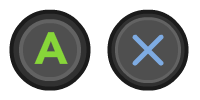
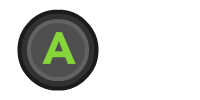
add cannonfire animation

diff --git a/DemoController.js b/DemoController.js
@@ -21,6 +21,7 @@ class DemoController {
         this.img.ship = new Image();
         this.img.seaFG = new Image();
         this.img.anchor = new Image();
+        this.img.smoke = new Image();
 
         this.lastConnectedIndex = null;
 
@@ -31,6 +32,8 @@ class DemoController {
         this.anchorY = 0;
         this.anchorDirection = 0;
         this.anchorMaxDepth = 300;
+
+        this.cannonEffects = new Array();
 
         this.resize();
 
@@ -47,6 +50,9 @@ class DemoController {
                 } else if (this.anchorDirection === -1) {
                     this.anchorDirection = 0;
                 }
+
+                if (buttons.hasOwnProperty(0) && buttons[0].state === 'press')
+                    this.fireCannon();
             } else {
                 if (buttons.hasOwnProperty('ArrowDown') && buttons['ArrowDown'].state === 'press') {
                     this.dropAnchor();
@@ -55,6 +61,9 @@ class DemoController {
                 } else if (this.anchorDirection === -1) {
                     this.anchorDirection = 0;
                 }
+
+                if (buttons.hasOwnProperty(' ') && buttons[' '].state === 'press')
+                    this.fireCannon();
             }
         });
 
@@ -168,7 +177,18 @@ class DemoController {
     }
 
     renderCannonFire(delta) {
-        // TODO
+        const toRemove = new Array();
+        this.cannonEffects.forEach((cannonBall, i) => {
+            const idx = Math.floor(cannonBall.ms / 40);
+            cannonBall.ms += delta;
+            if (idx > this.img.smoke.width / 120) {
+                toRemove.push(i);
+            } else {
+                this.ctx.drawImage(this.img.smoke, Math.floor(cannonBall.ms / 40) * 120, 0, 120, 120, this.shipX + 102 + cannonBall.x, this.shipY + 265, 120, 120);
+            }
+        });
+        toRemove.sort((a, b) => a - b);
+        toRemove.forEach(i => this.cannonEffects.splice(i, 1));
     }
 
     update(delta) {
@@ -189,6 +209,13 @@ class DemoController {
         this.anchorDirection = -1;
     }
 
+    fireCannon() {
+        const cannonBall = new Object();
+        cannonBall.ms = 0;
+        cannonBall.x = Math.floor(Math.random() * 4) * 38;
+        this.cannonEffects.push(cannonBall);
+    }
+
     load() {
         const images = new Array();
         images.push(new Promise((resolve => this.img.keyboard.onload = resolve)));
@@ -196,12 +223,14 @@ class DemoController {
         images.push(new Promise((resolve => this.img.ship.onload  = resolve)));
         images.push(new Promise((resolve => this.img.seaFG.onload  = resolve)));
         images.push(new Promise((resolve => this.img.anchor.onload  = resolve)));
+        images.push(new Promise((resolve => this.img.smoke.onload  = resolve)));
 
         this.img.keyboard.src = './assets/img/keyboard.png';
         this.img.gamepad.src = './assets/img/gamepad.png';
         this.img.ship.src = './assets/img/ship.png';
         this.img.seaFG.src = './assets/img/sea-foreground.png';
         this.img.anchor.src = './assets/img/anchor.png';
+        this.img.smoke.src = './assets/img/smoke-spritesheet.png';
 
         return Promise.all(images);
     }

diff --git a/main.css b/main.css
@@ -159,6 +159,8 @@ canvas {
 
 #devices #active-device {
     position: absolute;
+    display: flex;
+    align-items: center;
     top: 0;
     right: 0;
     z-index: 10;
@@ -171,12 +173,31 @@ canvas {
     transition: 300ms background-color ease-in-out, 300ms border-color ease-in-out;
 }
 
+@keyframes blink-animation {
+    0% {
+        opacity: 0;
+    }
+    100% {
+        opacity: 1;
+    }
+  }
+#devices #active-device p {
+    text-align: center;
+    animation: blink-animation 1s infinite;
+    animation-direction: alternate-reverse;
+    color: #333;
+}
+
 #devices #active-device.keyboard, #devices #active-device.gamepad {
     background-repeat: no-repeat;
     background-size: 100%;
     background-position: center;
     border-color: #EEE;
     background-color: #FFF;
+}
+
+#devices #active-device.keyboard p, #devices #active-device.gamepad p {
+    display: none;
 }
 
 #devices #active-device.keyboard { background-image: url('./assets/img/keyboard.png'); }

diff --git a/index.html b/index.html
@@ -24,6 +24,7 @@
           <div id="slot-3"></div>
         </section>
         <section id="active-device">
+          <p>Press key or gamepad button...</p>
         </section>
       </section>
       <section id="input-events">
